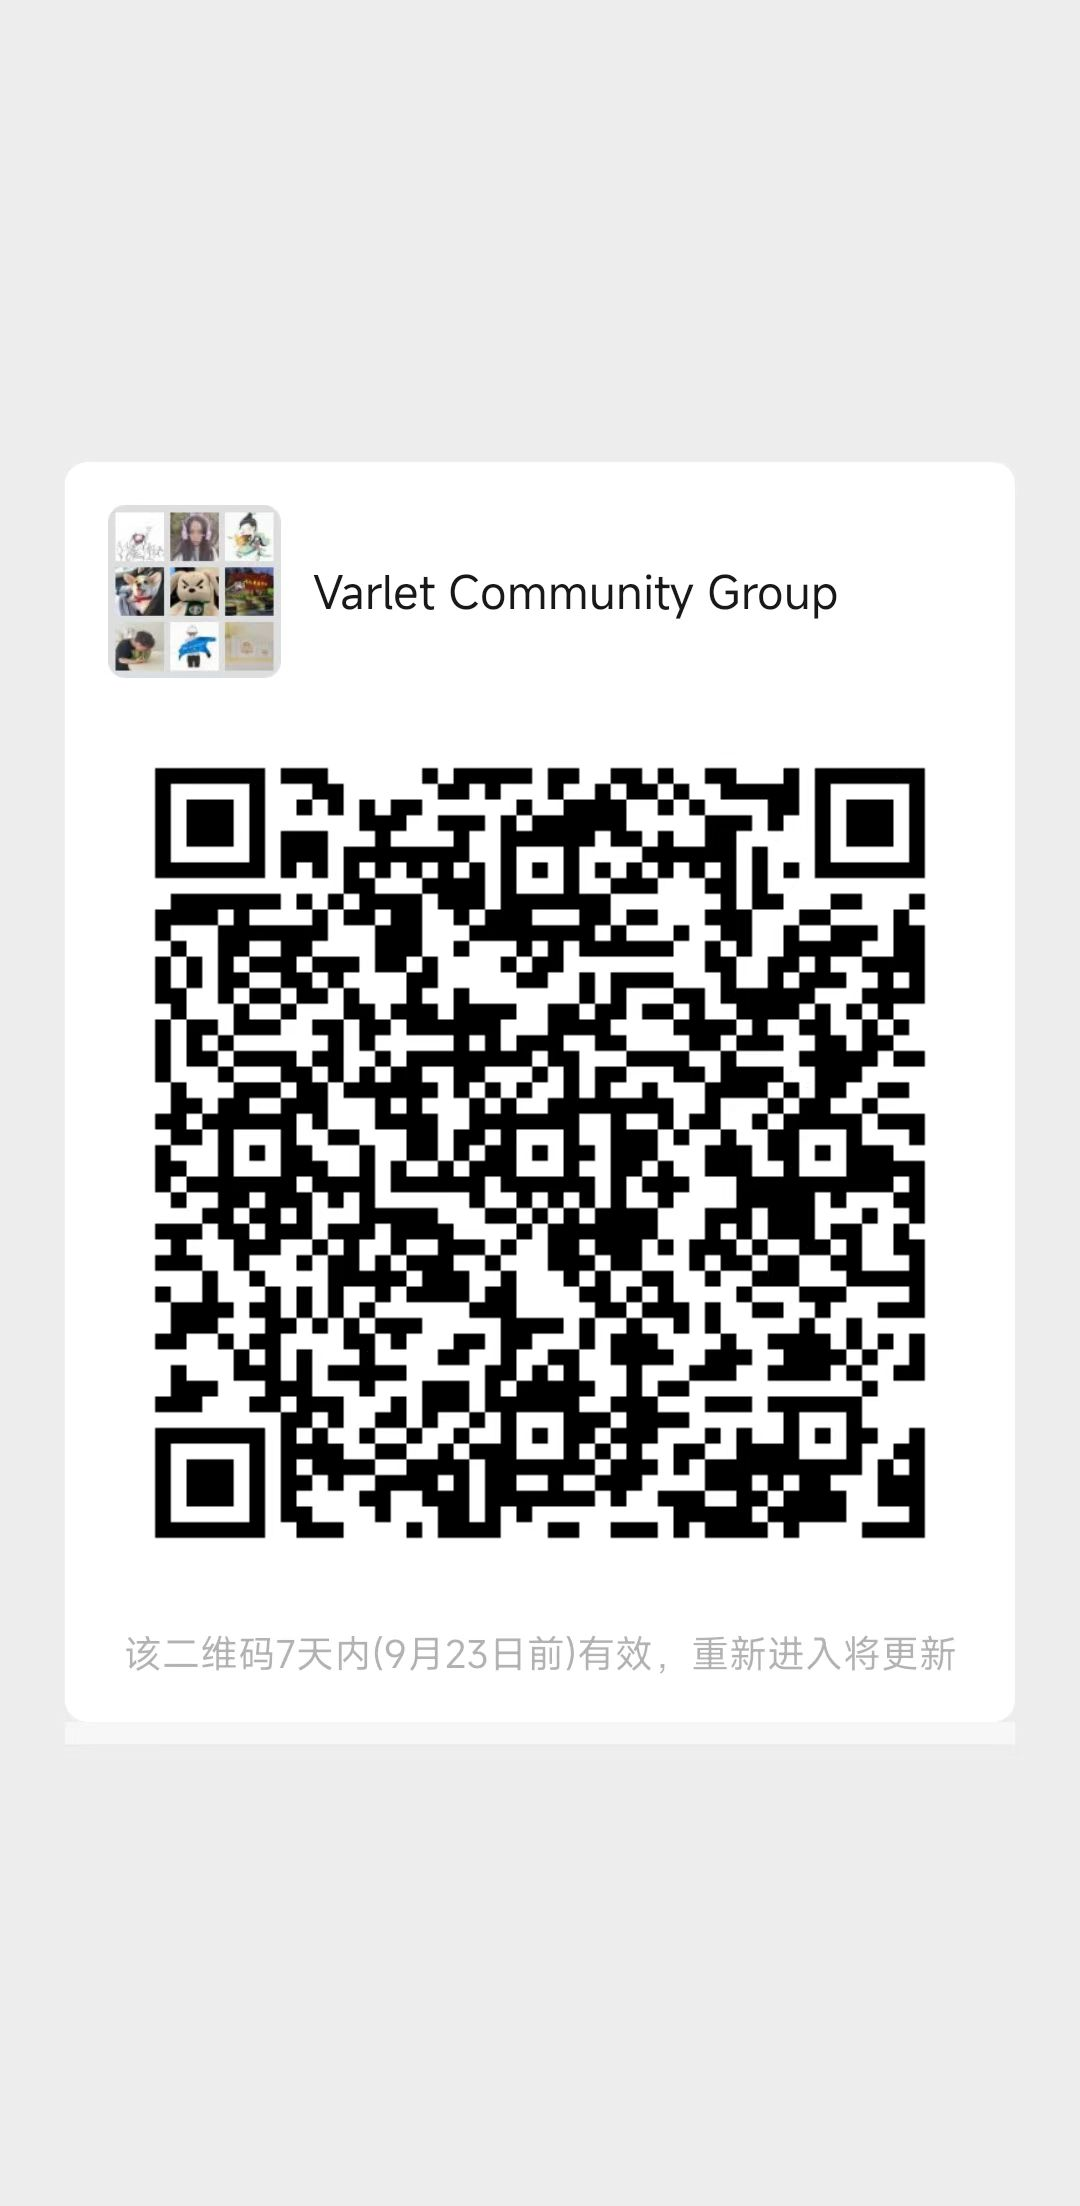
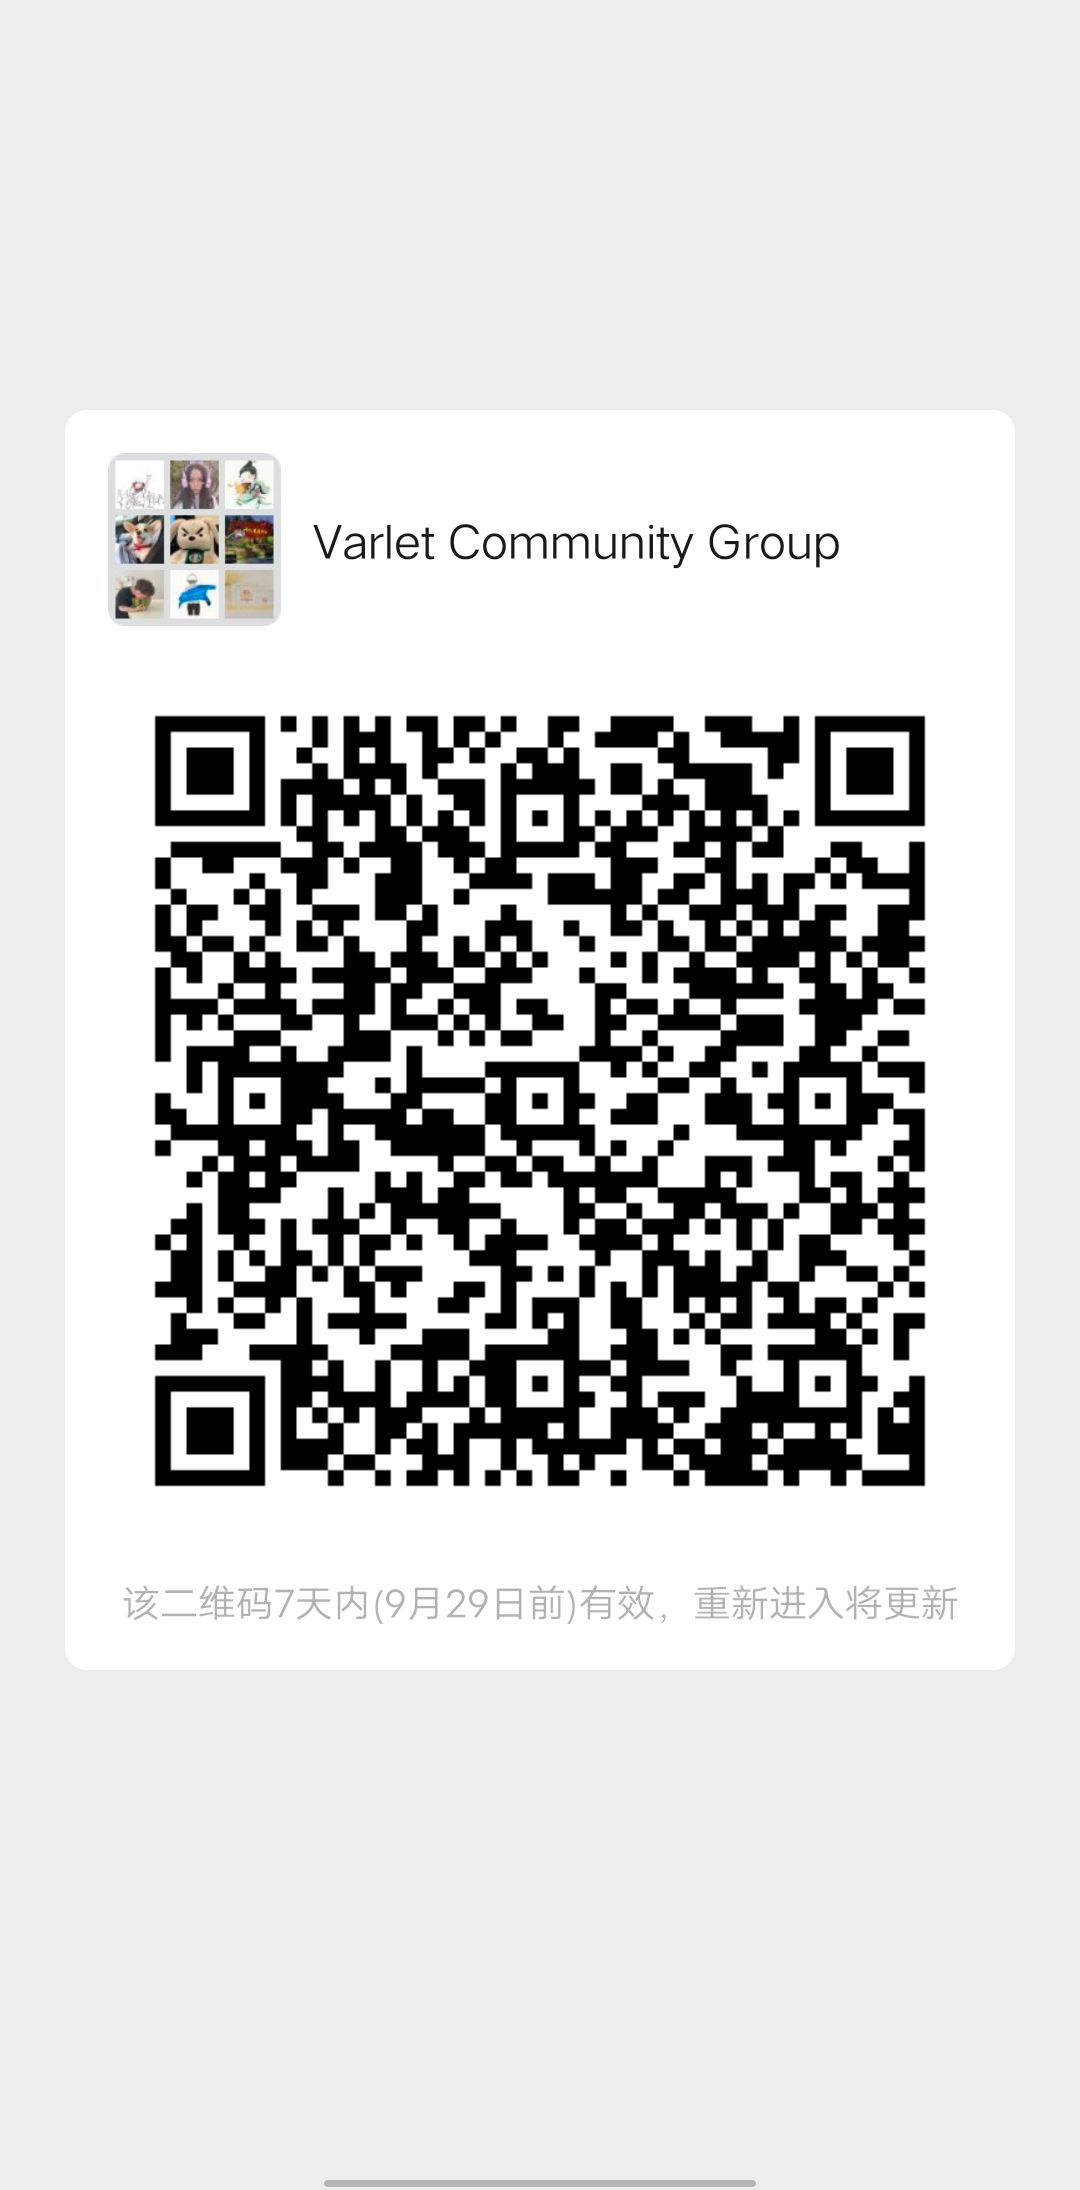
docs: update readme

Changed region(s): [[0.0917, 0.1863, 0.8861, 0.7763], [0.3056, 0.9936, 0.7028, 1.0]]

diff --git a/README.zh-CN.md b/README.zh-CN.md
@@ -82,9 +82,13 @@ createApp(App).use(Varlet).mount('#app')
 
 ### 反馈和交流
 
-我们推荐使用`issue`列表进行最直接有效的反馈，也可以通过扫描下方二维码进入微信群进行交流
+我们推荐使用`issue`列表进行最直接有效的反馈，也可以下面的方式
+
+* 微信
 
 <img style="width: 25%" src="https://github.com/varletjs/varlet/blob/dev/sponsor/community.png?raw=true" />
+
+* 加入 [Discord](https://discord.gg/Dmb8ydBHkw) 社区交流
 
 ### 感谢贡献者们做出的努力
 

diff --git a/README.md b/README.md
@@ -80,6 +80,16 @@ import '@varlet/ui/es/style.js'
 createApp(App).use(Varlet).mount('#app')
 ```
 
+### Community
+
+We recommend that [issue](https://github.com/varletjs/varlet/issues) be used for problem feedback, or others:
+
+* Wechat group 
+
+<img style="width: 25%" src="https://github.com/varletjs/varlet/blob/dev/sponsor/community.png?raw=true" />
+
+* Join the [Discord](https://discord.gg/Dmb8ydBHkw)
+
 ### Thanks to contributors
 
 <a href="https://github.com/varletjs/varlet/graphs/contributors">
